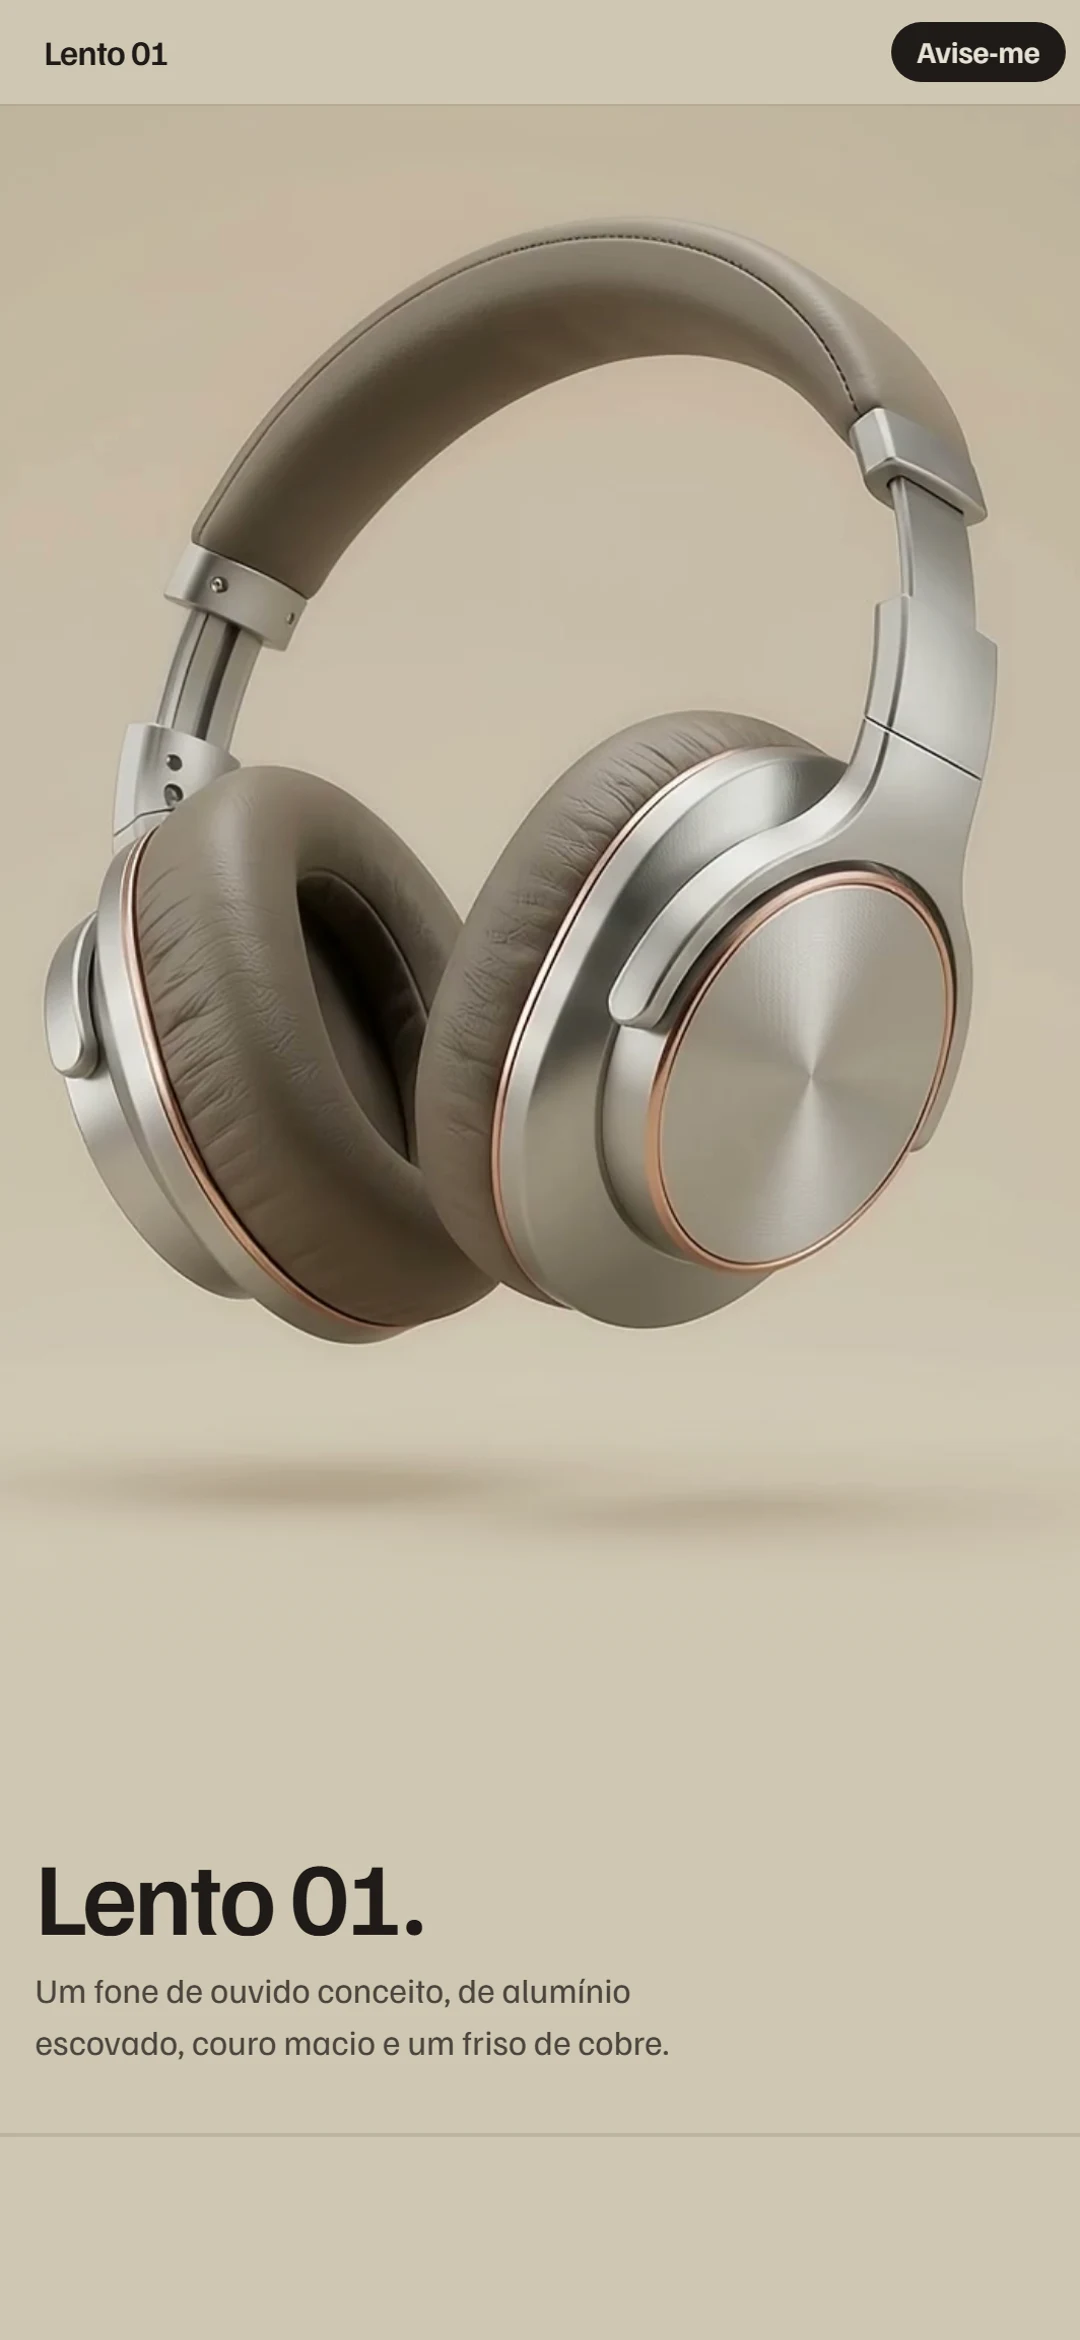
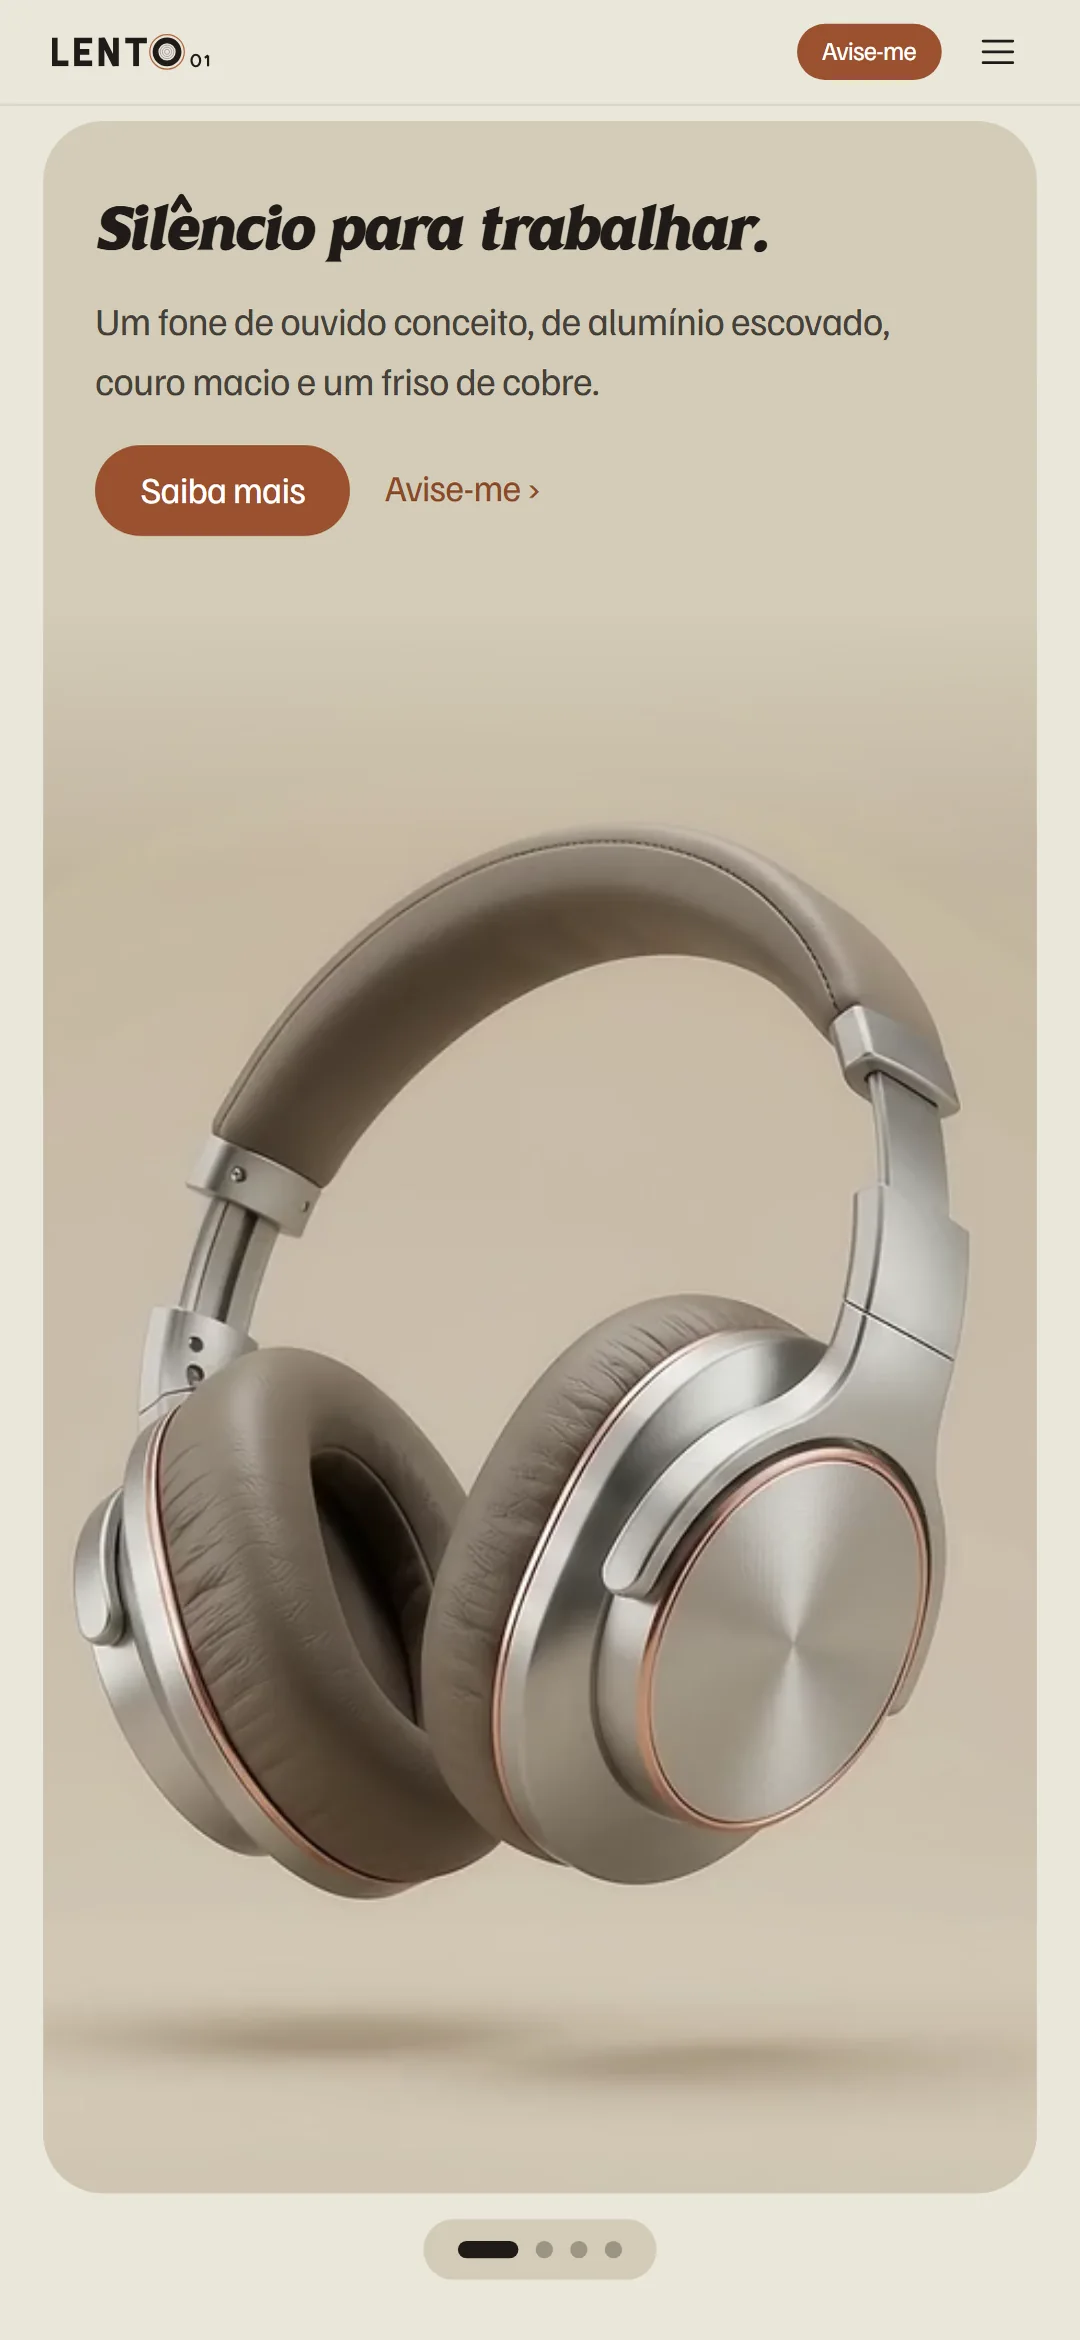
feat: capturas e texto do Lento 01 na versão nova (estrutura de página de produto, oito cores, clipes)

diff --git a/index.html b/index.html
@@ -432,18 +432,18 @@
 
                     <article class="projeto" id="projeto-lento">
                         <div class="capa">
-                            <img src="./captura-lento.webp?v=31" width="1440" height="810" loading="lazy"
-                                alt="Site do Lento 01: um fone de ouvido de alumínio escovado e couro bege flutuando sobre fundo bege, com o título Lento 01 embaixo">
-                            <img class="capa-celular" src="./captura-lento-mobile.webp?v=31" width="1080" height="2340" loading="lazy"
-                                alt="Lento 01 no celular, com o fone de ouvido bege no centro da tela e o título Lento 01 embaixo">
+                            <img src="./captura-lento.webp?v=32" width="1440" height="810" loading="lazy"
+                                alt="Site do Lento 01: um fone de ouvido de alumínio escovado e couro bege flutuando em um cartão arredondado, com o título Silêncio para trabalhar e os botões Saiba mais e Avise-me">
+                            <img class="capa-celular" src="./captura-lento-mobile.webp?v=32" width="1080" height="2340" loading="lazy"
+                                alt="Lento 01 no celular, com o fone de ouvido bege em um cartão arredondado, o título Silêncio para trabalhar e os botões Saiba mais e Avise-me">
                         </div>
                         <div class="projeto-corpo">
                             <p class="projeto-tipo">Site · Demonstração</p>
                             <h3>Um fone de ouvido que gira, se abre e mostra o interior conforme você rola</h3>
-                            <ul class="numeros"><li><strong>4</strong><span>cenas sobre um único vídeo na rolagem</span></li><li><strong>1080p</strong><span>vídeo com todos os quadros-chave, sem engasgo</span></li><li><strong>GSAP</strong><span>vídeo e legendas sincronizados com a rolagem</span></li></ul>
+                            <ul class="numeros"><li><strong>4</strong><span>cenas sobre um único vídeo na rolagem</span></li><li><strong>8</strong><span>cores com seletor e fotos de detalhe</span></li><li><strong>GSAP</strong><span>vídeo e legendas sincronizados com a rolagem</span></li></ul>
                             <dl class="caso">
                                 <div><dt>Contexto</dt><dd>Site de demonstração para um produto fictício, o fone Lento 01. A marca, o produto e os textos são inventados, e as imagens foram geradas por inteligência artificial.</dd></div>
-                                <div><dt>O que entrega</dt><dd>A página é um filme: a rolagem controla o vídeo, que gira o fone, mostra o couro e o friso de cobre e separa almofada, câmara e driver. Depois vêm um carrossel arrastável com inércia, a ficha técnica e um campo de e-mail simulado.</dd></div>
+                                <div><dt>O que entrega</dt><dd>A página segue a estrutura de uma página de produto: no tile de destaque a rolagem controla o vídeo, que gira o fone, mostra o couro e o friso de cobre e separa almofada, câmara e driver. Depois vêm os cartões das oito cores, o seletor com fotos de detalhe, cartões que tocam clipes em laço, o filme completo de 78 segundos, a ficha técnica e um campo de e-mail simulado.</dd></div>
                             </dl>
                             <p class="tags">Next.js · GSAP · Vídeo na rolagem</p>
                             <div class="projeto-links">
